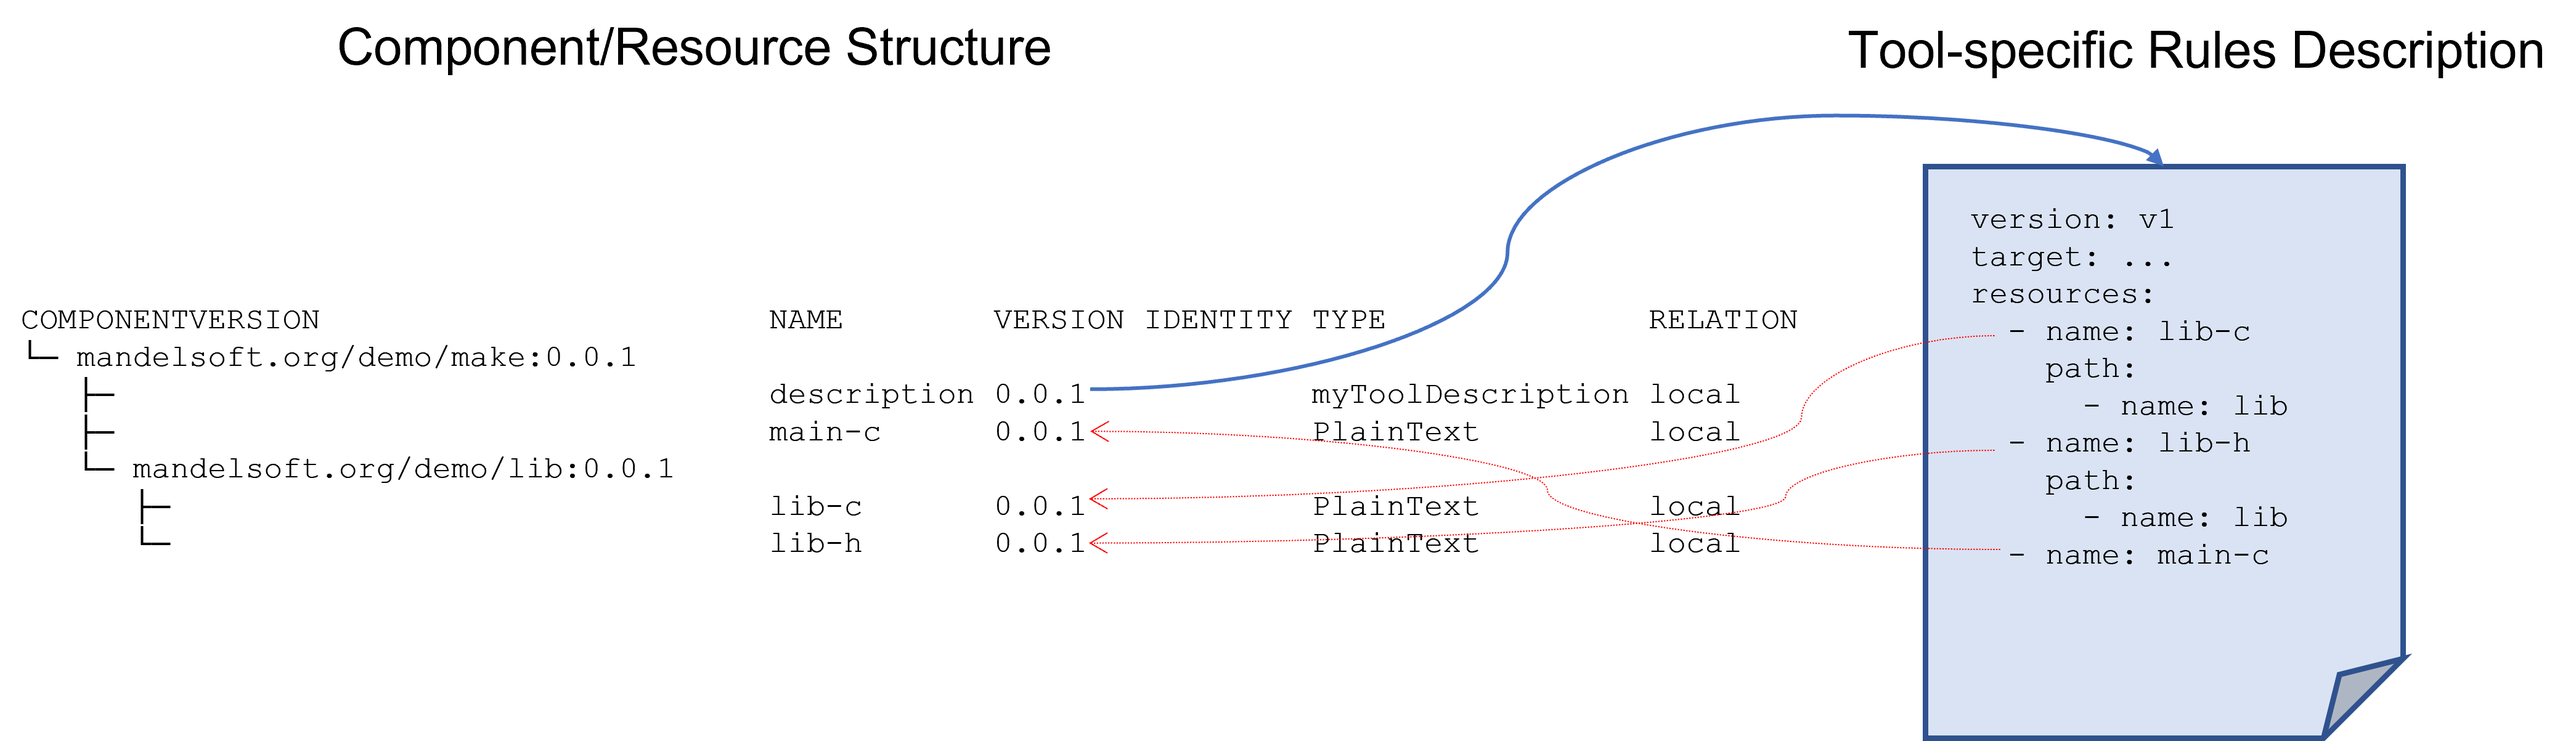
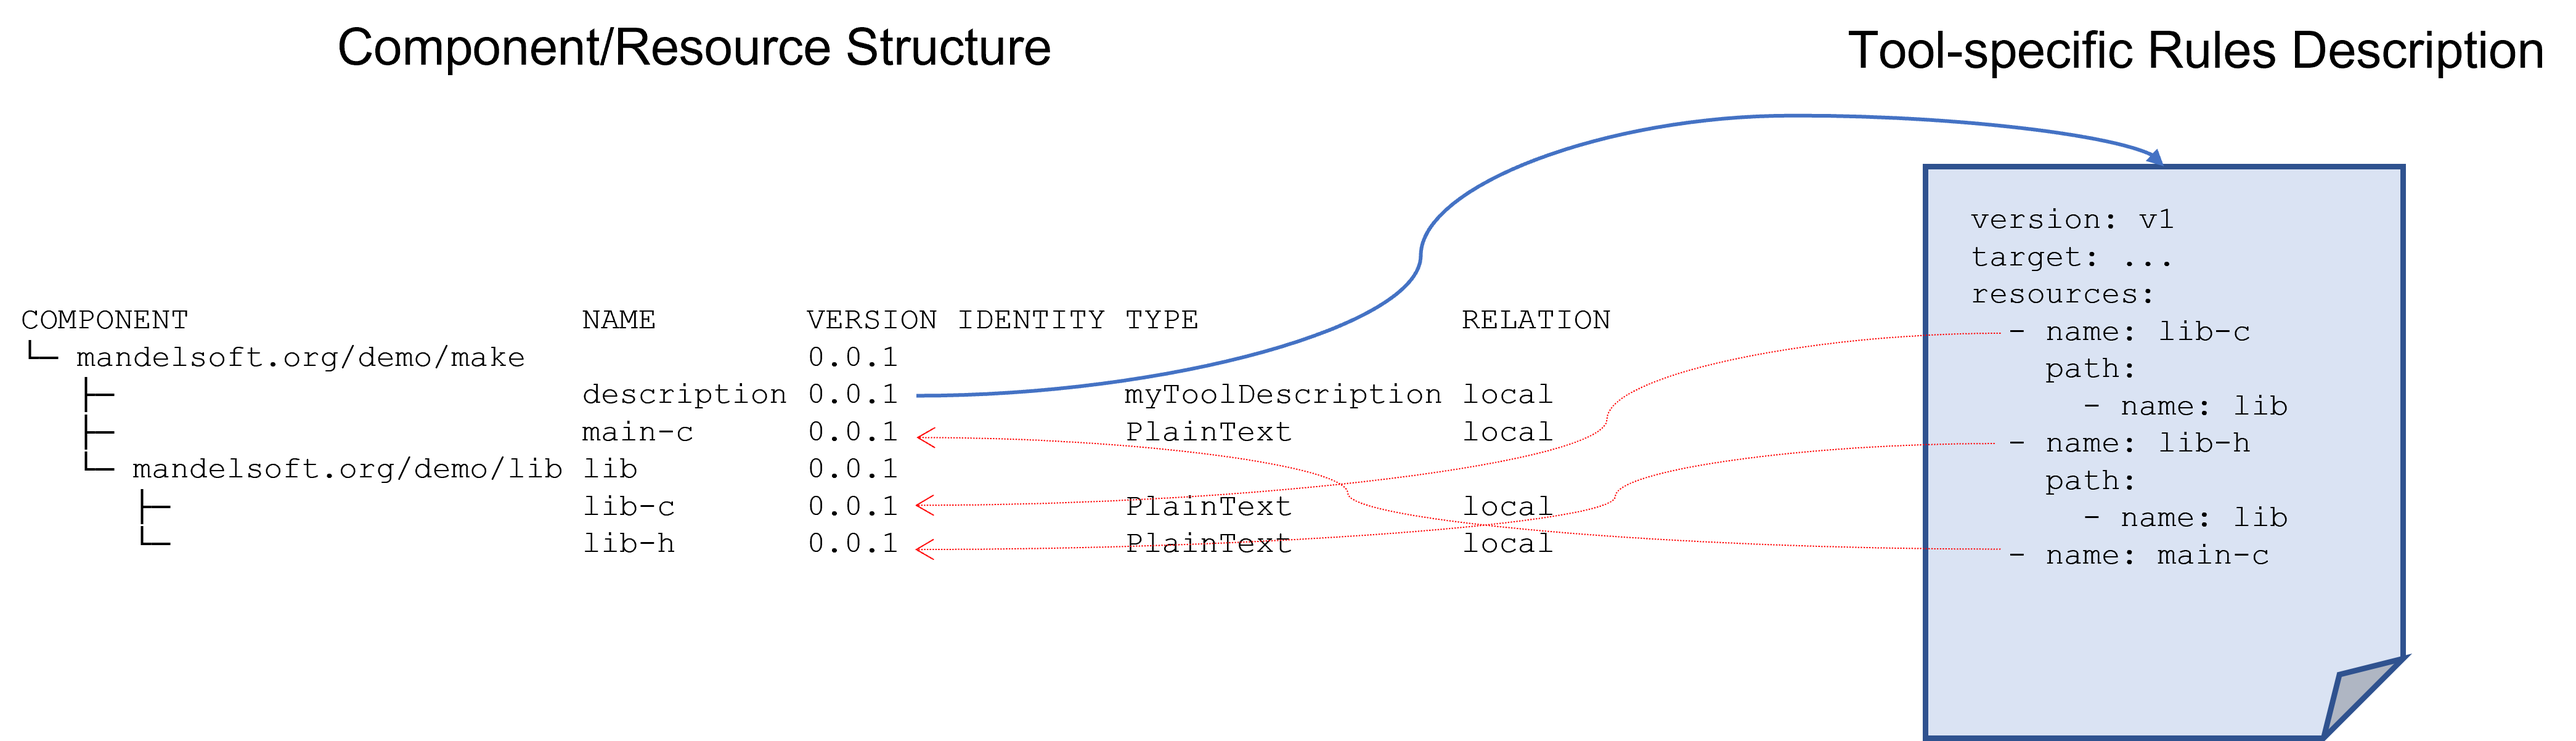
helm example

diff --git a/doc/specification/contract/README.md b/doc/specification/contract/README.md
@@ -4,17 +4,16 @@ The value of the plain Open Component Model is very limited. It comes
 with the tools interacting with the Model and its content.
 
 A first example for such a tool is the [transport](../../introduction/transports.md) tool provided directly
-by the OCM Command line client. It used the access information of resources contained in a component version to copy software artifacts from one environment into another.
+by the OCM Command line client. It uses the access information of resources contained in a component version to copy software artifacts from one environment into another and to potentially adapt then resource locations registered for the component version in the target environment.
 
-Another example could be a deployment tool accessing a component version to determine the artifacts, which should be deployed into
-a target environments.
+Another example could be a deployment tool accessing a component version to determine the artifacts, which should be deployed into a target environments.
 
 Such tools and their specification ar not part of the OCM specification. Nevertheless, they have to interact with the content described by the Open Component Model.
 
 To do so, there must be a clear contract between the model and the way tools interact with the model.
 
 There are two basic parts for this contract:
-- All content required to deploy and install software described by a component version must be described as resources by this component version.
+- All content required to deploy and install software described by a component version must be included as resources in this component version.
 - All resource locations (e.g. image locations) used in a runtime environment must be taken directly or indirectly from the access information provided by the used component versions.
 
 This is required to fulfill the promise made by the Open Component Model:
@@ -24,27 +23,26 @@ This is required to fulfill the promise made by the Open Component Model:
 This has various consequences especially for deployment environments,
 but basically for all tools working with the component model and even the component model itself:
 
-- (Deployment) Descriptions for dedicated tools describing software artifacts used by these tools must be part of a component version. They have to be stored as additional resources with an appropriate own artifact type.
-- Those descriptions must use description elements based on the component model to denote those artifacts. It is not possible anymore to describe explicit, absolute or global artifact locations.
+- (Deployment) Descriptions for dedicated tools describing software artifacts used by these tools must be part of a component version. They have to be stored as additional resources with an appropriate own (tool/technology specific) artifact type.
+- Those descriptions must use descriptive elements based on the component model to denote those artifacts. It is not possible anymore to describe explicit, absolute or global direct artifact locations.
 - Even component names or versions must not be used, because they would
   impede the possibility of other tools to detect the complete set of required artifacts (for example for the transport tool)
-- To avoid the need of describing always complete closed sets of artifacts the model must be able to aggregate/include artifact sets provided by other component versions. This directly motivates the [component reference](../elements/README.md#aggregation) feature of a component version.
-- A component version must include all resources, either by resources directly described by the component version or by referring to other component versions recursively describing these resources.
+- To avoid the need of describing always complete closed sets of artifacts in a single component version the model must be able to aggregate/include artifact sets provided by other component versions. This directly motivates the [component reference/aggregation feature](../elements/README.md#aggregation) of a component version.
+- With this, a component version must include all resources, either by resources directly described by the component version or by referring to other component versions recursively describing these resources.
 - The artifacts described by such a tool specific description must be resolvable in the context of the component version containing this description as artifact.
-- This directly leads to the notion of [relative artifact references](../elements/README.md#artifact-references). The denotation of described artifacts is always given by a sequence of reference identities and a final resource [identity](../elements/README.md#identities). This sequence leads, starting from the initial component version, following the component references, to the component version finally containing the resource. This path does not contain any absolute component names, but only relative names or better identities described by the dedicated component version.
-- The same rules that apply to description artifacts, also apply to artifacts used as executable entity (container image or plain executable). This means, even those artifacts must not use artifact locations provided during their build/production process. (For example,
-  a container image intended to deploy other executable elements must not use hard-wired resource locations). Instead, the deployment of such an element must be fed with configuration data describing those locations, finally taken from the component version describing the deployment of this element. So, the task of a deployment tool is to extract this information from the actually used component version and provide appropriate input for the executable entity.
+- This directly leads to the notion of [relative artifact references](../elements/README.md#artifact-references). The denotation of described artifacts is always given by a sequence of reference identities and a final resource [identity](../elements/README.md#identities). This sequence leads, starting from the initial component version, following the component references, to the component version finally containing the desired resource. This path does not contain any absolute component names, but only relative names or better identities in the context of the dedicated component versions along the access path.
+- The same rules that apply to description artifacts, also apply to artifacts used as executable entity (container image or plain executable). This means, even those artifacts must not use artifact locations provided during their build/production process. (For example, a container image intended to deploy other executable elements must not use hard-wired resource locations). Instead, the deployment of such an element must be fed with configuration data describing those locations finally taken from the component version describing the deployment of this element. So, the task of a deployment tool is to extract this information from the actually used component version and provide appropriate input for the executable entity.
 
 ## Comparison with well-known environments
 
-Let's motivate all this by comparing it with some well-known technology having similar requirements: the Filesystem and a file based build technology like *make*.
+Let's motivate all this by comparing it with some well-known technology having similar requirements: the Filesystem and a file based build technology like *make*. A make project should consist of a self-contained set of build resources. also. As a build description must be able to describe rules on those resources.
 
 ### Filesystem based Build Tool
 
 The filesystem is a hierarchical namespace used to address named content described by files organized in directories.
 
 *Make* is tool executing some build steps of a source structure.
-The build description is stored on a *Makefile*.
+The build description is stored as a dedicated file called *Makefile*.which is typically located in the root folder of a build project.
 
 A simple example could look like this:
 
@@ -61,7 +59,7 @@ A simple example could look like this:
                 └── main.c
 ```
 
-The filesystem path `/some/project/location` contains the files belonging to the build projects, described by the *Makefile* in this directory. The sources are contained in a subdirectory `src`, which again has a deep structure.
+The filesystem path `/some/project/location` contains the files belonging to the build projects, described by a *Makefile* in this directory. The sources are contained in a subdirectory `src`, which again has a deep structure.
 
 You can produce the executable `echo` by switching to the folder `/some/project/location` and executing `make`.
 
@@ -86,27 +84,31 @@ clean:
 ```
 
 You can see, that the file resources are denoted by path names relative
-to the directory containing the Makefile. Why is done this way instead of using absolute path names? Using such relative path names allow to package
-the complete project (for example with `cd /some/project/location; tar cvf ../echo.tar .`). You can take this archive and transport into onto another host and unpack it under some arbitrary directory (for example `cd /my/local/echo; tar xvf echo.tar`). Just executing `make` again, build your echo command in the new location.
+to the directory containing the *Makefile*. Why is it done this way instead of using absolute path names? Using such relative path names allow to package
+the complete project (for example with `cd /some/project/location; tar cvf ../echo.tar .`). You can take this archive and transport it onto another host and unpack it under some arbitrary directory (for example `cd /my/local/echo; tar xvf echo.tar`). Just executing `make` again, builds your echo command in the new location.
 
 <div align="center"> 
 <img src="make.png" alt="Structure of the make filesystem" width="800"/>
 </div>
 
-This is basically the same scenario we have to solve with the Open Component Model and tools working with provide content.
+This is basically the same scenario we have to solve with the Open Component Model and tools working with provided content.
 
 ### How does it look like in the Open Component Model
 
-The component model describes a hierarchical namespace for component versions. Component versions are stored in a component repository.  The component version describes resources like files in a filesystem folder. The component version references can be seen as counterpart to sub folders in a filesystem (better: symbolic links).
+The component model describes a hierarchical namespace for component versions. Component versions are stored in a component repository.  A component version describes resources like files in a filesystem folder. The component version references can be seen as counterpart to sub folders in a filesystem (better: symbolic links) and span a directed graph with a navigatable using local names of the references in the context of the containing component versions.
+
+<div align="center"> 
+<img src="resref.png" alt="Structure of OCM Resources" width="800"/>
+</div>
 
 Our make project is comparable to the content of a component version.
 The substructure maps to a sequence of component references.
 
-The *Makefile* is a description used by the tool *make* it refers to filesystem resources. A tool acting on the component model works exactly the same way. The description used to control the functionality of the tool is stores as artifact in the toot component version. It describes the required resources in means of the component model by using relative artifact references following the reference sequence of aggregated component version up to the file resource.
+The *Makefile* is a description used by the tool *make* and refers to filesystem resources. A tool acting on the component model works exactly the same way. The description used to control the functionality of the tool is stored as artifact in the root component version (It uses a tool/technology specific artifact type). It describes the required resources by means of the component model by using relative artifact references following the reference sequence of aggregated component versions up to the final artifact resource.
 
 Such a description could look like this:
 
-**Description Resource**:
+**Description Resource** (artifact type `myToolDescription`):
 ```
 version: v1
 target: ...
@@ -123,23 +125,59 @@ resources:
 It is based on a component structure looking like this:
 
 ```
-COMPONENTVERSION                        NAME        VERSION IDENTITY TYPE              RELATION
-└─ mandelsoft.org/demo/make:0.0.1                                                      
-   ├─                                   description 0.0.1            myToolDescription local
-   ├─                                   main-c      0.0.1            PlainText         local
-   └─ mandelsoft.org/demo/lib:0.0.1                                                    
-      ├─                                lib-c       0.0.1            PlainText         local
-      └─                                lib-h       0.0.1            PlainText         local
-
+COMPONENT                     NAME        VERSION IDENTITY TYPE              RELATION
+└─ mandelsoft.org/demo/make               0.0.1                              
+   ├─                         description 0.0.1            myToolDescription local
+   ├─                         main-c      0.0.1            PlainText         local
+   └─ mandelsoft.org/demo/lib lib         0.0.1                              
+      ├─                      lib-c       0.0.1            PlainText         local
+      └─                      lib-h       0.0.1            PlainText         local
 ```
 
-A library component `mandelsoft.org/demo/lib` contains some library resources (for sure dedicated files of an archive would never be represented as dedicated resources in a component version, this is just an example illustrating the similarities to our make scenario).
+A library component version `mandelsoft.org/demo/lib` contains some library resources (for sure dedicated files of an archive would never be represented as dedicated resources in a component version, this is just an example illustrating the similarities to our make scenario).
 
-This top level component `mandelsoft.org/demo/make:0.0.1` contains a resource `description` for the tool specific description file and some
-top-level resource `main-c` This resource and the two library resources
+This top-level component version `mandelsoft.org/demo/make:0.0.1` describes the top-level resources as direct resources: a resource `description` for the tool specific description file (of type `myToolDescription`) and some resource `main-c`. To get access to the library resources, the top-level component aggregates the library component version by adding a component version reference to this component version. This resource and the two library resources
 are described by the description file, above, using resource references relative to the component version hosting the description file, like a *Makefile* described relative file paths to denote the required resources in the directory structure. 
-
 
 <div align="center"> 
 <img src="ocm.png" alt="Structure of OCM Resources" width="800"/>
+</div>
+
+The tool typically does not understand such resource references, unless it is explicitly designed to work with the component model. Therefore, an adaptation
+of the OCM related descriptions formats into description formats understandable by the  native tools must be done by some adapter.
+
+The process of adapting (deployment) descriptions to reflect resource locations valid in a dedicated target environment based on information provided by a component version is called *Localization* and must always be done, when dealing with content delivered via component versions.
+
+## Real life example
+
+As native technology we use the [helm deployment system](https://helm.sh/) for Kubernetes.
+
+A helm chart describes Kubernetes resources, which are templated using some values.
+provided when deploying a chart.
+
+Typically, a helm chart may contain container image references used for the described pods. This violates the above contract: the location of resources must be taken from the component version describing the deployment description resource (the helm chart).
+
+### Simple Deployments
+
+Because of this kind of required *image localization*, all images in a chart must be templated to be able to specify the concrete values by the deployment configuration.
+
+A component version used to deliver a helm chart therefore requires several resources:
+- all the images required for the helm chart
+- the helm chart
+- a helm specific description file relating the helm chart resource with all the image resources. It describes which value names should be fed with which image location taken from the component version containing this description.
+
+The OCM deploy adapter known the format of this description resource and merge
+a user provider configuration file with the described image location properties.
+The resulting helm values file can then be passed to the native helm deployment tool to deploy the application.
+
+<div align="center"> 
+<img src="ocm-helm-simple.png" alt="OCM and Helm Deployments" width="800"/>
+</div>
+
+### Indirect Deployments
+
+If a used image itself contains code used to deploy pods to a Kubernetes cluster (for example an operator managing some kind of service instances), these image locations must also be taken from the actual component version. This requires an additional indirection. The executable of the image must take some argument to pass the locations, for example by passing a config file. This must (potentially additionally) be provided by the helm chart and templated by additional image location properties, which must be described in the description resource and fed by the adapter.
+
+<div align="center"> 
+<img src="ocm-helm-indirect.png" alt="OCM and Helm Deployments with indirect Deployments" width="800"/>
 </div>

diff --git a/README.md b/README.md
@@ -47,11 +47,12 @@ To use a backend storage technology as an OCM repository it is necessary to prov
 
 2 [OCM Specification](doc/specification/README.md)
 
-2.1 [OCM Elements](doc/specification/elements/README.md) <br>
-2.2 [OCM Operations](doc/specification/operations/README.md) <br>
-2.3 [Storage Backend Mappings](doc/specification/mapping/README.md) <br>
+2.1 [Model Elements](doc/specification/elements/README.md) <br>
+2.2 [Model Operations](doc/specification/operations/README.md) <br>
+2.3 [Model Contract](doc/specification/contract/README.md) <br>
 2.4 [Formats and Names](doc/specification/formats/README.md) <br>
 2.5 [Denotation Schemes](doc/specification/denotations/README.md) <br>
+2.6 [Storage Backend Mappings](doc/specification/mapping/README.md) <br>
 
 3 [Scenarios](doc/scenarios/README.md) <br>
 
